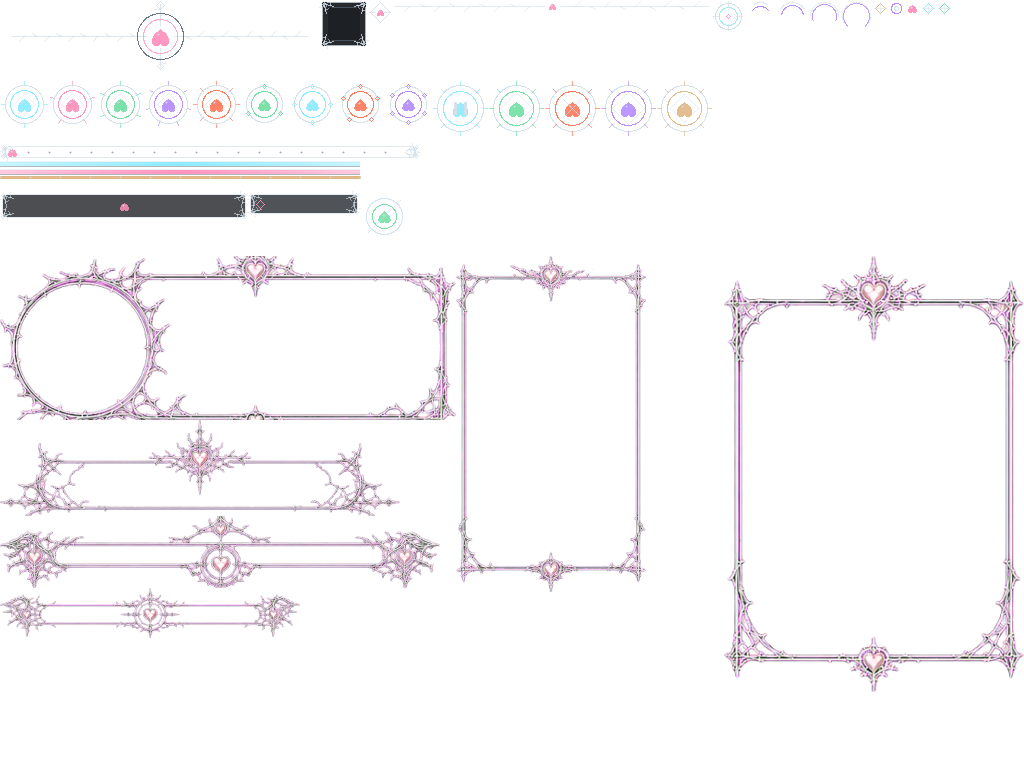
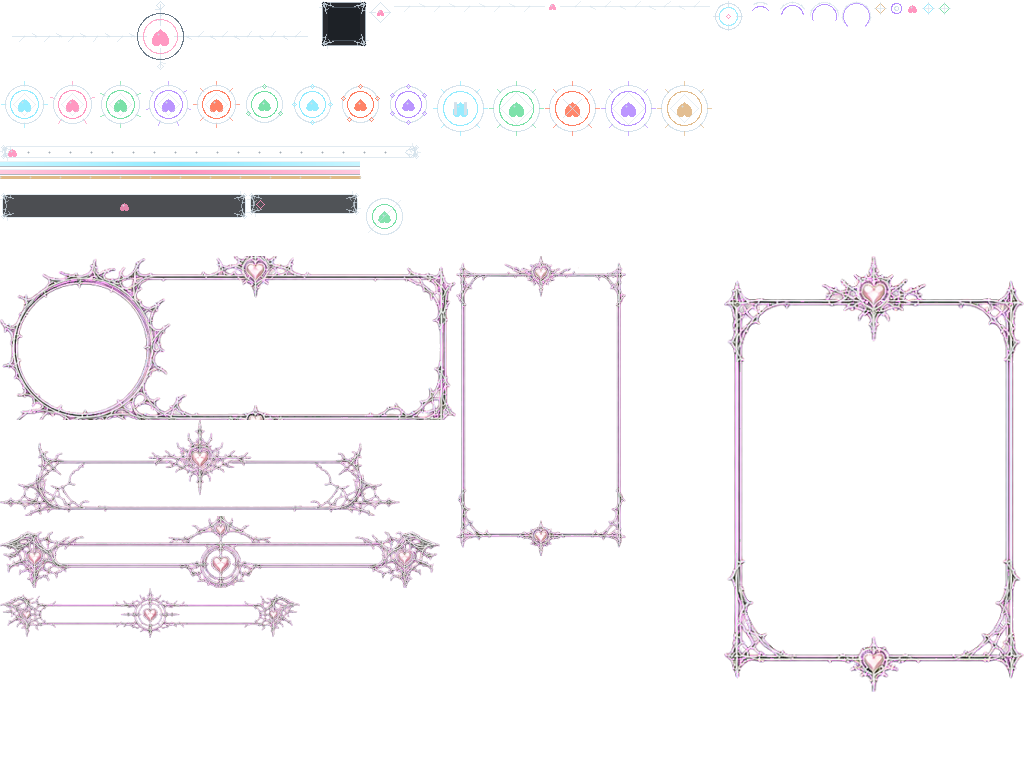
Rebalance v4 character selection

Changed region(s): [[0.4375, 0.3438, 0.625, 0.7812]]

diff --git a/src/main.ts b/src/main.ts
@@ -1631,53 +1631,64 @@ function drawView(view: {
     drawScreenHeading(view.title ?? 'SELECT', 72);
     const previewActor = view.character === undefined ? undefined : V4_PLAYER_ACTORS[view.character];
     const identity = view.character === undefined ? undefined : V4_CHARACTER_UI[view.character as keyof typeof V4_CHARACTER_UI];
-    const characterFrame = V4_UI_CELLS['ui.character.frame'];
-    const characterFrameX = 38;
-    const characterFrameY = 100;
+    const characterLayout = V4_UI_SCREEN.character;
     if (previewActor !== undefined) {
       const strip = v4Actors.players.strip(previewActor.strip);
       const frame = v4Actors.players.frameOf(strip, 2);
+      const source = characterLayout.actorSource;
+      const actor = characterLayout.actor;
       surface.imageSmoothingEnabled = false;
       surface.globalAlpha = 0.96;
       surface.drawImage(
         v4Actors.players.texture.image as CanvasImageSource,
-        frame.x,
-        frame.y,
-        frame.w,
-        frame.h,
-        46,
-        142,
-        178,
-        178,
+        frame.x + source.x,
+        frame.y + source.y,
+        source.w,
+        source.h,
+        actor.x,
+        actor.y,
+        actor.w,
+        actor.h,
       );
       surface.globalAlpha = 1;
     } else if (view.character !== undefined) {
-      surface.drawImage(portraitImage(view.character), 58, 154, 154, 154);
+      const fallback = characterLayout.fallback;
+      surface.drawImage(
+        portraitImage(view.character),
+        fallback.x,
+        fallback.y,
+        fallback.w,
+        fallback.h,
+      );
     }
     // Draw the identity card over the preview so its authored thorns and heart
     // remain the foreground silhouette.  The image inside is still the real
     // actor atlas (or the existing third-party portrait fallback), never a
     // second character identity baked into UI art.
-    drawV4Ui(surface, v4Ui, 'ui.character.frame', characterFrameX, characterFrameY, {
-      width: characterFrame.displayW,
-      height: characterFrame.displayH,
+    const characterFrame = characterLayout.frame;
+    drawV4Ui(surface, v4Ui, 'ui.character.frame', characterFrame.x, characterFrame.y, {
+      width: characterFrame.w,
+      height: characterFrame.h,
       alpha: 0.92,
     });
     if (identity !== undefined) {
+      const crest = characterLayout.crest;
       drawV4Ui(
         surface,
         v4Ui,
         identity.crest,
-        characterFrameX + (characterFrame.displayW - 64) / 2,
-        94,
-        { width: 64, height: 64 },
+        crest.x,
+        crest.y,
+        { width: crest.w, height: crest.h },
       );
     }
-    drawMenuRows(view.menu ?? [], view.selected, 236, 142, 196, 48, age);
+    const menu = characterLayout.menu;
+    drawMenuRows(view.menu ?? [], view.selected, menu.x, menu.y, menu.w, menu.rowH, age);
     // Character copy owns the right-hand column below the menu. Keeping it out
     // of the full-width centre prevents even short built-in blurbs from crossing
-    // the production card's right edge at x=228.
-    drawViewLines(view.lines ?? [], 334, 390, 176, '#93a2ae');
+    // the compact production card's right edge.
+    const copy = characterLayout.copy;
+    drawViewLines(view.lines ?? [], copy.x, copy.y, copy.w, '#93a2ae');
     surface.restore();
     return;
   }

diff --git a/tools/v4-actor-atlas.test.ts b/tools/v4-actor-atlas.test.ts
@@ -1,4 +1,5 @@
 import { describe, expect, test } from 'bun:test';
+import { V4_UI_SCREEN } from '../src/render/v4-ui-layout';
 import { decodePng } from './png-decode';
 
 interface SheetSpec {
@@ -120,4 +121,28 @@ describe('compiled v4 Ghost actor atlases', () => {
       }
     });
   }
+
+  test('every neutral player pose fits the character-select preview crop', async () => {
+    const players = SHEETS[0]!;
+    const image = decodePng(await Bun.file(players.url).bytes());
+    const crop = V4_UI_SCREEN.character.actorSource;
+
+    for (let row = 0; row < players.rows; row++) {
+      const neutral = frameAlpha(image.rgba, image.width, players.frame, 2, row);
+      expect(
+        neutral.minX,
+        `player row ${row} paints left of the preview crop`,
+      ).toBeGreaterThanOrEqual(crop.x);
+      expect(
+        neutral.minY,
+        `player row ${row} paints above the preview crop`,
+      ).toBeGreaterThanOrEqual(crop.y);
+      expect(neutral.maxX, `player row ${row} paints right of the preview crop`).toBeLessThan(
+        crop.x + crop.w,
+      );
+      expect(neutral.maxY, `player row ${row} paints below the preview crop`).toBeLessThan(
+        crop.y + crop.h,
+      );
+    }
+  });
 });

diff --git a/tools/v4-ui-atlas.test.ts b/tools/v4-ui-atlas.test.ts
@@ -4,6 +4,7 @@ import {
   V4_UI_ATLAS_WIDTH,
   V4_UI_CELLS,
   V4_UI_PANEL_CORNER,
+  V4_UI_SCREEN,
 } from '../src/render/v4-ui-layout';
 import {
   generateV4UiAtlas,
@@ -16,7 +17,7 @@ const file = new URL('../src/assets/v4/ui-v4.png', import.meta.url);
 
 const PRODUCTION_CELLS = {
   'ui.dialogue.frame': { x: 0, y: 256, w: 456, h: 164 },
-  'ui.character.frame': { x: 456, y: 256, w: 190, h: 336 },
+  'ui.character.frame': { x: 456, y: 256, w: 170, h: 300 },
   'ui.status.frame': { x: 724, y: 256, w: 300, h: 436 },
   'ui.title.masthead': { x: 0, y: 420, w: 400, h: 96 },
   'ui.boss.ornament': { x: 0, y: 516, w: 440, h: 72 },
@@ -142,6 +143,25 @@ describe('v4 engine-owned UI atlas', () => {
     expect(panel.frameH).toBe(48);
     expect(panel.frameW - V4_UI_PANEL_CORNER * 2).toBeGreaterThan(0);
     expect(panel.frameH - V4_UI_PANEL_CORNER * 2).toBeGreaterThan(0);
+  });
+
+  test('the character-select composition crops padding and keeps the enlarged actor inside its card', () => {
+    const { frame, actorSource, actor, crest, menu, copy } = V4_UI_SCREEN.character;
+    expect(frame).toEqual({ x: 45, y: 104, w: 170, h: 300 });
+    expect(actorSource).toEqual({ x: 24, y: 4, w: 80, h: 120 });
+    expect(actorSource.x + actorSource.w).toBeLessThanOrEqual(128);
+    expect(actorSource.y + actorSource.h).toBeLessThanOrEqual(128);
+    expect(actor.x).toBeGreaterThanOrEqual(frame.x);
+    expect(actor.y).toBeGreaterThanOrEqual(frame.y);
+    expect(actor.x + actor.w).toBeLessThanOrEqual(frame.x + frame.w);
+    expect(actor.y + actor.h).toBeLessThanOrEqual(frame.y + frame.h);
+    expect(actor).toEqual({ x: 50, y: 134, w: 160, h: 240 });
+    expect(actor.w / actorSource.w).toBe(2);
+    expect(actor.h / actorSource.h).toBe(2);
+    expect(actor.h / frame.h).toBe(0.8);
+    expect(crest.x + crest.w / 2).toBe(frame.x + frame.w / 2);
+    expect(menu.x).toBeGreaterThan(frame.x + frame.w);
+    expect(copy.x - copy.w / 2).toBeGreaterThanOrEqual(menu.x);
   });
 
   test('animated graze feedback is a four-frame fixed-size strip', () => {

diff --git a/src/render/v4-ui-layout.ts b/src/render/v4-ui-layout.ts
@@ -85,7 +85,7 @@ export const V4_UI_CELLS = {
   // while callers may still scale them to a screen composition (menu rows in
   // particular intentionally fit several different text columns).
   'ui.dialogue.frame': cell(0, 256, 456, 164),
-  'ui.character.frame': cell(456, 256, 190, 336),
+  'ui.character.frame': cell(456, 256, 170, 300),
   'ui.status.frame': cell(724, 256, 300, 436),
   'ui.title.masthead': cell(0, 420, 400, 96),
   'ui.boss.ornament': cell(0, 516, 440, 72),
@@ -99,7 +99,18 @@ export const V4_UI_PANEL_CORNER = 12;
 /** Fixed screen compositions, also in 480×640 logical pixels. */
 export const V4_UI_SCREEN = {
   menu: { x: 54, y: 116, w: 372, h: 458 },
-  character: { x: 24, y: 30, w: 432, h: 574 },
+  character: {
+    frame: { x: 45, y: 104, w: 170, h: 300 },
+    // Every neutral player pose paints inside this shared 80x120 crop. Cropping
+    // the common transparent rim lets the full-body preview read at menu scale
+    // without changing the gameplay actor atlas or its pivots.
+    actorSource: { x: 24, y: 4, w: 80, h: 120 },
+    actor: { x: 50, y: 134, w: 160, h: 240 },
+    fallback: { x: 58, y: 182, w: 144, h: 144 },
+    crest: { x: 104, y: 92, w: 52, h: 52 },
+    menu: { x: 236, y: 142, w: 196, rowH: 48 },
+    copy: { x: 334, y: 390, w: 176 },
+  },
   status: { x: 90, y: 102, w: 300, h: 436 },
   dialogue: { x: 12, y: 464, w: 456, h: 164 },
 } as const;

diff --git a/src/main-render-contract.test.ts b/src/main-render-contract.test.ts
@@ -179,6 +179,19 @@ describe('v4 UI presentation stays event- and tick-driven', () => {
     expect(titleSource).toContain("surface.fillText('\u25bc'");
   });
 
+  test('character selection crops transparent actor padding and gives the body priority over its frame', () => {
+    const characterStart = mainSource.indexOf("if (view.kind === 'character-select')");
+    const difficultyStart = mainSource.indexOf("if (view.kind === 'difficulty-select')", characterStart);
+    const characterSource = mainSource.slice(characterStart, difficultyStart);
+
+    expect(characterSource).toContain('const characterLayout = V4_UI_SCREEN.character');
+    expect(characterSource).toContain('frame.x + source.x');
+    expect(characterSource).toContain('frame.y + source.y');
+    expect(characterSource).toContain('actor.x,');
+    expect(characterSource).toContain("drawV4Ui(surface, v4Ui, 'ui.character.frame'");
+    expect(characterSource).not.toContain('46,\n        142,\n        178,\n        178');
+  });
+
   test('dialogue uses the shared layout and clips both portrait paths to its round well', () => {
     const dialogueStart = mainSource.indexOf('function drawDialogue(');
     const wrapStart = mainSource.indexOf('function wrapText(', dialogueStart);

diff --git a/docs/assets.md b/docs/assets.md
@@ -708,7 +708,7 @@ runtime cells are:
 |---|---:|---|
 | `ui.title.masthead` | 400×96 | title identity and crest silhouette |
 | `ui.menu.row` | 300×50 | normal/selected menu-row frame, alpha-modulated by state |
-| `ui.character.frame` | 190×336 | frame over the selected real actor crop |
+| `ui.character.frame` | 170×300 | compact frame over the enlarged selected real actor crop |
 | `ui.dialogue.frame` | 456×164 | dialogue silhouette and circular portrait well |
 | `ui.status.frame` | 300×436 | pause, clear, game-over, ending and result card |
 | `ui.boss.ornament` | 440×72 | authored caps/crest behind the compact Boss facts |